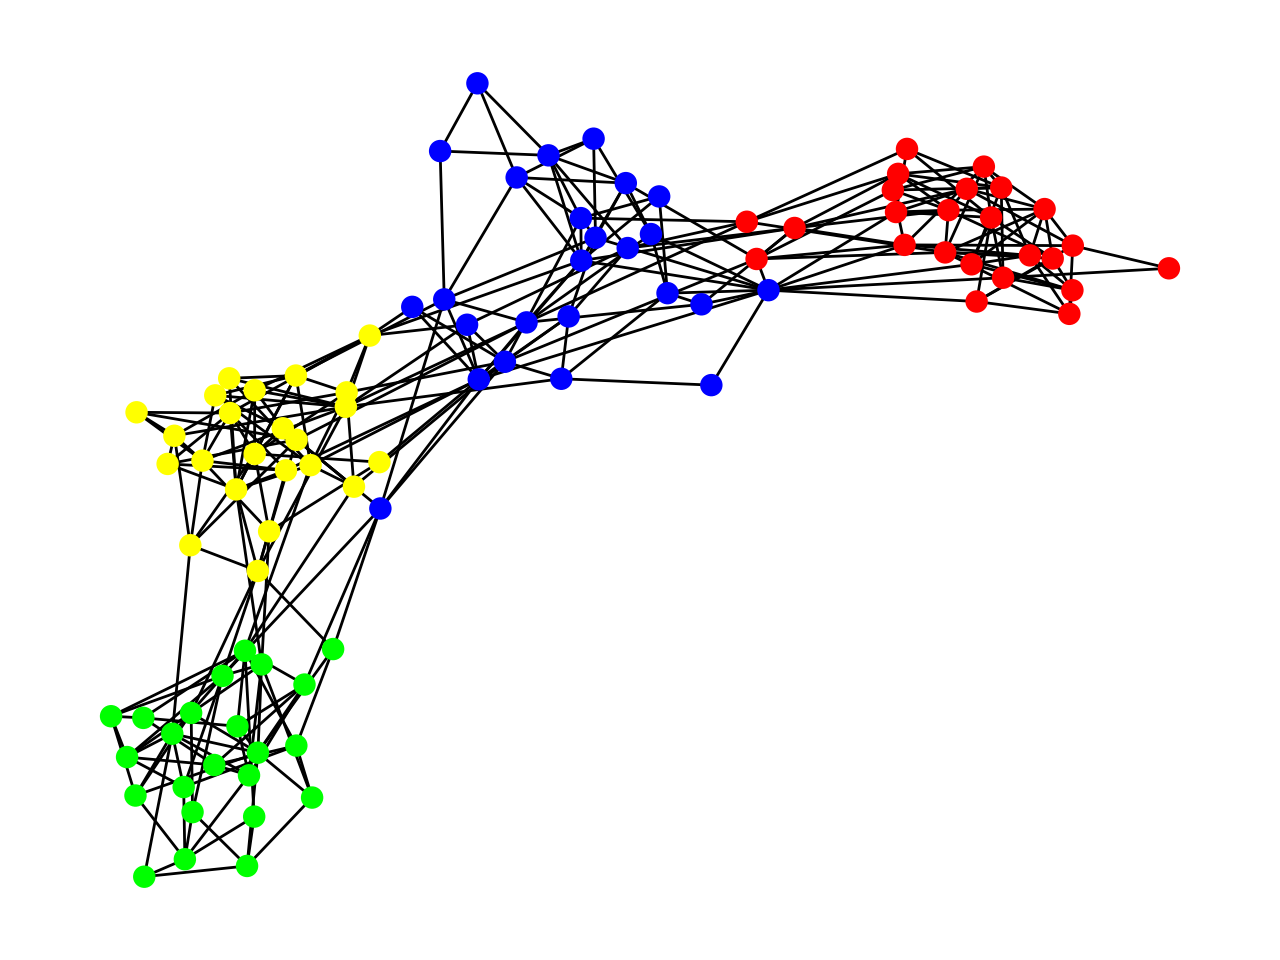
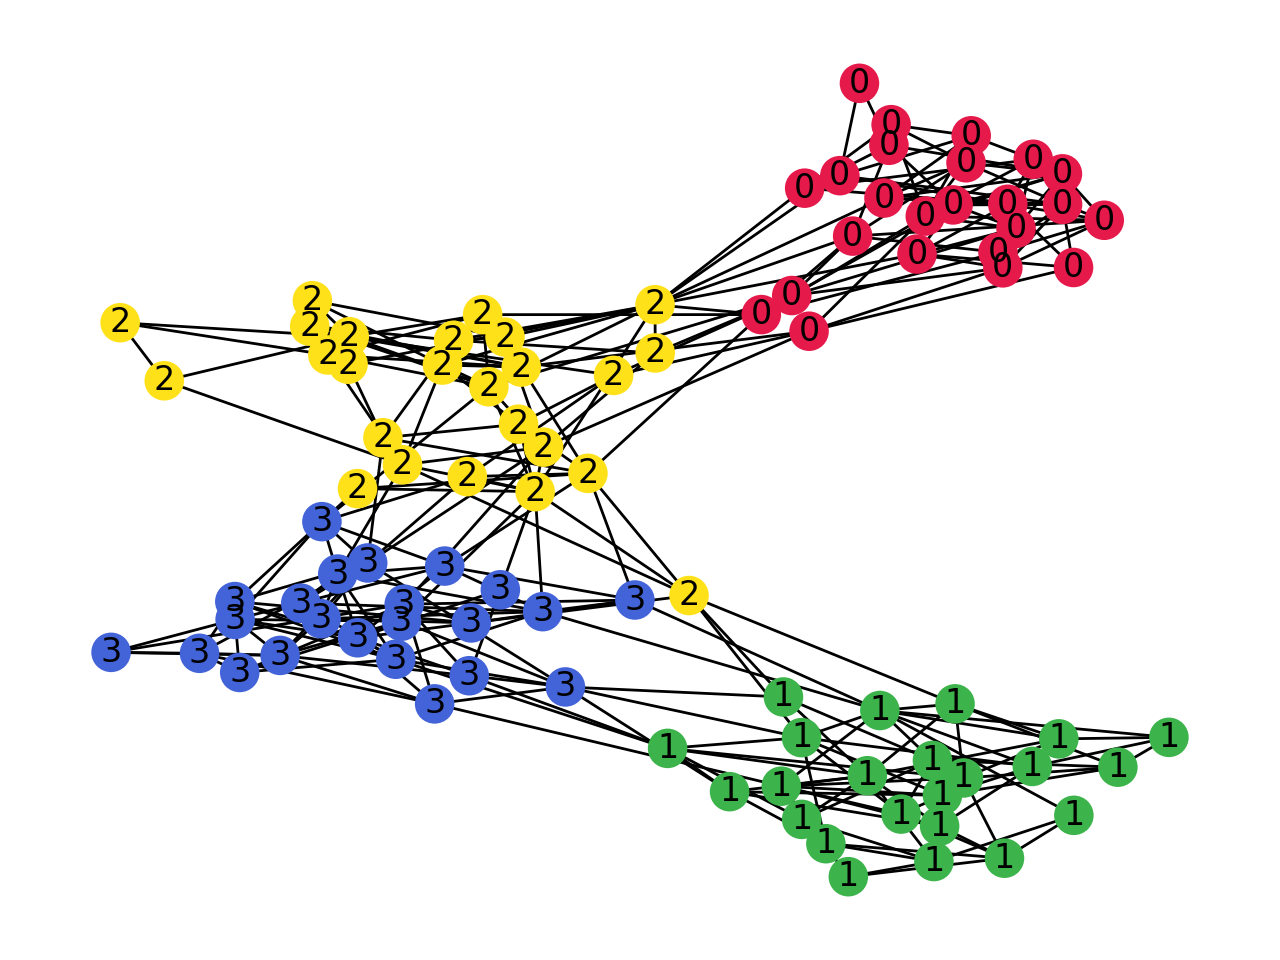
reducing notes in graph-theory & commented items

Changed region(s): [[0.0625, 0.0625, 0.9375, 0.9375]]

diff --git a/experiment/graph-theory.py b/experiment/graph-theory.py
@@ -5,24 +5,9 @@ from setup import *
 # /  \  /  \  /  \  /  \  /  \  /  \  /  \  /  \  /  \  /  \  /  \  /  \  /  \  /  \  /  \
 #/    \/    \/    \/    \/    \/    \/    \/    \/    \/    \/    \/    \/    \/    \/    \
 #convert the imported files into reasonable data tables
-# buildBaseTables()
+# buildBaseTables() #vestigial line
 buildClusterTable()
 buildForeignKeys()
-# simpleTeaTea()
-
-# ##########################################################################
-# teachers = [] #array of all the unique student data
-#     #OBJ-format ==>> id | timestamp | email | fullname | firstname | surname | friends[FK] | teachers[FK] | lookupName
-# teachers = [] #array of all the unique teacher data
-#     #OBJ-format ==>> id | timestamp | email | fullname | firstname | surname | teachers[FK] | lookupName
-# ##########################################################################
-# stu_stu  = [] #array of all requested student pairs
-#     #OBJ-format ==>> id | student1 [FK] | student2 [FK]
-# stu_tea  = [] #array of all requested student-teacher pairs
-#     #OBJ-format ==>> id | student [FK] | teacher [FK] 
-# tea_tea  = [] #array of all requested teacher pairs
-#     #OBJ-format ==>> id | teacher1 [FK] | teacher2 [FK]
-# ##########################################################################
 
 #\    /\    /\    /\    /\    /\    /\    /\    /\    /\    /\    /\    /\    /\    /\    /
 # \  /  \  /  \  /  \  /  \  /  \  /  \  /  \  /  \  /  \  /  \  /  \  /  \  /  \  /  \  /
@@ -39,29 +24,15 @@ buildForeignKeys()
     # http://theory.stanford.edu/~nmishra/Papers/clusteringSocialNetworks.pdf
     # probably this --> https://www.cse.msu.edu/~cse802/S17/slides/Lec_20_21_22_Clustering.pdf
     # definitely this --> https://towardsdatascience.com/social-network-analysis-from-theory-to-applications-with-python-d12e9a34c2c7
-    # using networkx library...
+    # using 'networkx' & 'community' library for access to graph-data models & python-louvain partitioning methods
+    # try this: https://www.geeksforgeeks.org/operations-on-graph-and-special-graphs-using-networkx-module-python/?ref=lbp
+    # should probably make a dataset with two or three obvious cliques for a "barbell" graph
 
 import networkx as nx
 import matplotlib.pyplot as plt
 import math
 # G = nx.DiGraph() #directional graph
 G = nx.Graph() #nondirectional graph
-
-#---------------------------------------------
-# test grid for positional drawing
-#
-# grid=[]
-# dimension = int(math.sqrt(len(teachers)+4))
-# for x in range(0,dimension):
-#     for y in range(0,dimension):
-#         grid.append([x,y])
-# print(grid)
-#---------------------------------------------
-
-#---- turns out: nodes implied from edges ------- don't need these -------------
-# G.add_nodes_from(teachers)
-# print (G.number_of_nodes(), " nodes present")
-# print(G)
 
 for teacher in teachers:
     for tea in teacher.teachers:
@@ -71,100 +42,62 @@ for teacher in teachers:
             if x != teacher:
                 G.add_edge(teacher, x)
 
-# print (G.number_of_edges(), " edges present")
 print("\t",G)
 
-# # nx.clustering(G)
-# max_clique = []
-# for person in nx.algorithms.approximation.clique.max_clique(G):
-#     max_clique.append(person.fullname)
-# print("Approximate max clique:",max_clique)    
-
 #taken from partition-networkx tutorial on pip page
-print("from partition-networkx libray:")
-import community ## this is the python-louvain package which can be pip installed 
-import partition_networkx
-ml = community.best_partition(G)
-ec = community.ecg(G, ens_size=10) 
+print("\tFrom the imported partitioning libray:")
+import community #https://github.com/taynaud/python-louvain
+max_res = 0.2*len(G.nodes) #about as high as it seems to be stable
+low_res = 1.0 #also the default value
+ml = community.best_partition(G,resolution=low_res) #the resolution seems like it can be anywhere from 1.0 to 0.2n
+import partition_networkx #https://github.com/ftheberge/graph-partition-and-measures  https://pypi.org/project/partition-networkx/
+# ec = community.ecg(G, ens_size=10) 
+# ec = community.ecg(G) 
 
-# print(ml)
-# groups = ec.partition
-groups = ml
+hues=['#e6194b', '#3cb44b', '#ffe119', '#4363d8', '#f58231', '#911eb4', '#46f0f0', '#f032e6', '#bcf60c', '#fabebe', '#008080', '#e6beff', '#9a6324', '#fffac8', '#800000', '#aaffc3', '#808000', '#ffd8b1', '#000075', '#808080']
+
+groups = ml #this is a dictionary | keys are nodes, vals are partition number
+# groups = ec.partition #this is the ml equivalent dictionary, processed by another alrogithm
 color_map=[]
+labeldict={}
 num_partitions = 0
 for group in groups:
     if groups[group] > num_partitions:
         num_partitions = groups[group]
-    if groups[group] == 0:
-        hue='#00ff00'
-    if groups[group] == 1:
-        hue='#ff0000'
-    if groups[group] == 2:
-        hue='#0000ff'
-    if groups[group] == 3:
-        hue='#ffff00'
-    if groups[group] == 4:
-        hue='#00ffff'
-    if groups[group] == 5:
-        hue='#ff00ff'
-    color_map.append(hue)
+    # print(groups[group])
+    color_map.append(
+        hues[groups[group] % len(hues)])
+    labeldict[group] = groups[group]
 
 print("\t",num_partitions+1," automatically generated partitions")
 # print(groups) #<--- this could use some more investigation...
 
-# print("\tAdjusted Graph-Aware Rand Index for Louvain:",G.gam(G, ml))
-# print("\tAdjusted Graph-Aware Rand Index for ecg:",G.gam(G, ec.partition))
-
-# print("\n\tJaccard Graph-Aware for Louvain:",G.gam(G, ml, method="jaccard",adjusted=False))
-# print("\tJaccard Graph-Aware for ecg:",G.gam(G, ec.partition, method="jaccard",adjusted=False))
-
 #---------------------------------------------
 # Draw the picture of the graph
-nx.draw(G, node_color=color_map, node_size=50)
+nx.draw(G, node_color=color_map, node_size=175, labels=labeldict, with_labels = True)
 plt.savefig("graph.png",dpi=200)
 #---------------------------------------------
 
-
-# Thinking this might work: 
-#   https://pypi.org/project/partition-networkx/
-
-
-# following these instructions: 
-#   https://www.geeksforgeeks.org/python-clustering-connectivity-and-other-graph-properties-using-networkx/
-# #------- only undirected graph -----------------------
-# print(nx.is_connected(G))
-# for n in list(nx.connected_components(G)): #this catches all that are even slightly connected.
-#     count = 0
-#     print(n)
-#     for j in n:
-#         count += 1
-#     print(count, " items in connected 'clique'")
-
-print("\t average short path between two nodes: ",nx.average_shortest_path_length(G))
-
-# try this: https://www.geeksforgeeks.org/operations-on-graph-and-special-graphs-using-networkx-module-python/?ref=lbp
-# should probably make a dataset with two or three obvious cliques for a "barbell" graph
+print("\t average shortest path between two nodes: ",nx.average_shortest_path_length(G))
 
 #\    /\    /\    /\    /\    /\    /\    /\    /\    /\    /\    /\    /\    /\    /\    /
 # \  /  \  /  \  /  \  /  \  /  \  /  \  /  \  /  \  /  \  /  \  /  \  /  \  /  \  /  \  /
 #  \/    \/    \/    \/    \/    \/    \/    \/    \/    \/    \/    \/    \/    \/    \/
 #-------------------------------------------------------------------------------------------
-# first attempt at 'communities'  || https://www.youtube.com/watch?v=PIVx1oedv2o&ab_channel=RoelVandePaar
-#
-# spring_pos = nx.spring_layout(G)
-# parts = nx.best_partition(G)
-# values = [parts.get(node) for node in G.nodes()]
-# nx.draw(G, pos=spring_pos, cmap=plt.get_cmap("jet"), node_color=values, node_size=50)
-# plt.savefig("graph.png",dpi=300)
-#-------------------------------------------------------------------------------------------
+# # #test to see how the resolution of the Function impacts things...
+# partition_resolution_pattern=[]
+# from tqdm import tqdm
+# for i in tqdm(range(1,len(G.nodes)*10)):
+#     res = i/20
+#     nodes_dict = community.best_partition(G,resolution=res)
+#     #nodes_dict = community.ecg(G, ens_size=int(res*20)).partition
 
-#-------------------------------------------------------------------------------------------
-# trying to use cliques to find breakdowns || https://networkx.org/documentation/stable/reference/algorithms/clique.html?highlight=cliques
-#
-# for i in nx.find_cliques(G):
-#     clique = []
-#     for j in i:
-#         clique.append(j.fullname)
-#     print(clique)
-#     # print("\n")
-#-------------------------------------------------------------------------------------------
+#     new_parts = 0
+#     for node in nodes_dict:
+#         if nodes_dict[node] > new_parts:
+#             new_parts = nodes_dict[node]
+#     partition_resolution_pattern.append([res,new_parts])
+
+# for i in partition_resolution_pattern:
+#     plt.scatter(i[0],i[1])
+# plt.show()
